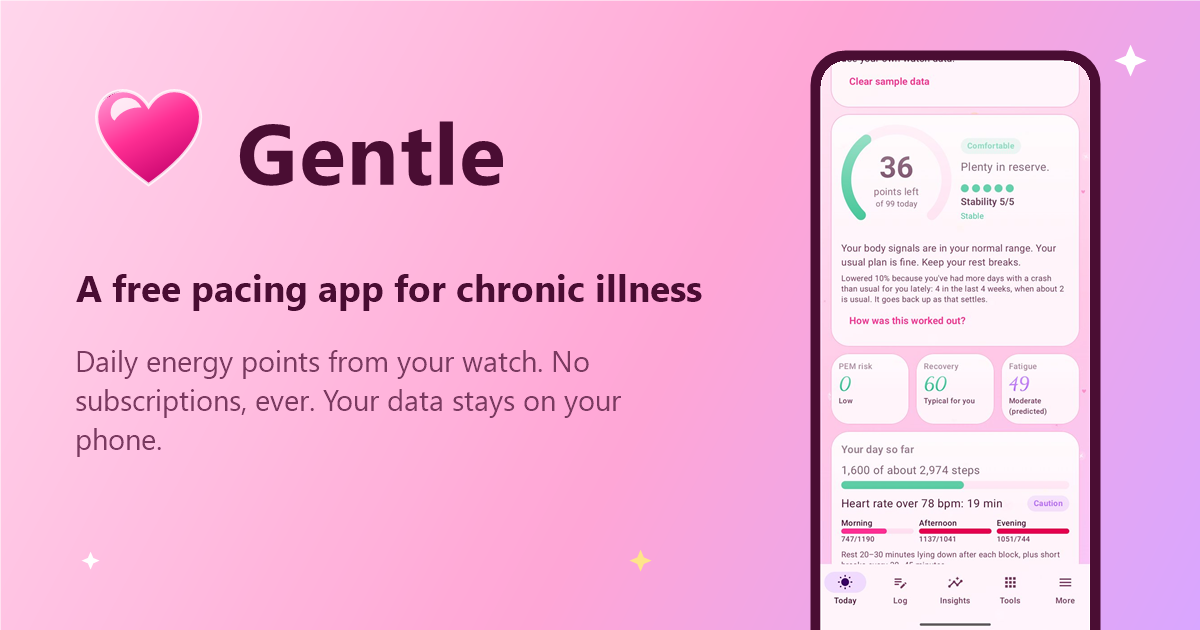
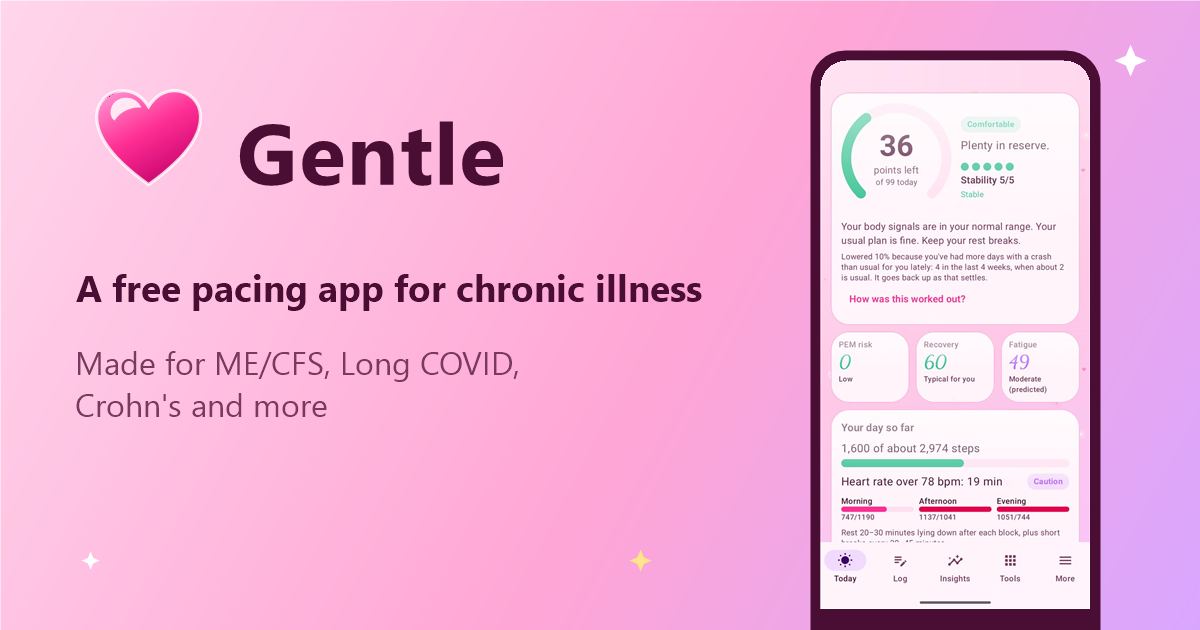
New sharing image tagline, privacy page Health Connect list, app-ads.txt for AdMob

Changed region(s): [[0.6783, 0.0905, 0.925, 1.0], [0.0617, 0.5429, 0.5242, 0.6635], [0.0617, 0.6937, 0.1233, 0.7238]]

diff --git a/privacy.html b/privacy.html
@@ -74,7 +74,7 @@
   "about": {
     "@id": "https://gentle-app.github.io/#app"
   },
-  "dateModified": "2026-11-22"
+  "dateModified": "2026-11-23"
 }
   </script>
   <!-- Cloudflare Web Analytics --><script type='module' src='https://static.cloudflareinsights.com/beacon.min.js' data-cf-beacon='{"token": "a7fb1e376e5f4f01a6a2b616ecb05672"}'></script><!-- End Cloudflare Web Analytics -->
@@ -194,7 +194,7 @@
     <p>If you make a backup or a report for your doctor, the file goes wherever you choose to save or send it.</p>
 
     <h2>What Gentle reads from Health Connect</h2>
-    <p>With your permission, Gentle reads steps, heart rate, resting heart rate, heart rate variability, sleep, exercise sessions, calories, distance, floors, blood oxygen, breathing rate, skin and body temperature, menstruation, weight, nutrition and hydration. You choose which of these it can read, and you can change that in Health Connect whenever you like. Gentle only uses them on your phone, to work out your energy points, alerts and patterns.</p>
+    <p>With your permission, Gentle reads steps, heart rate, resting heart rate, heart rate variability, sleep, exercise sessions, blood oxygen, breathing rate, skin temperature, menstruation, nutrition and hydration. You choose which of these it can read, and you can change that in Health Connect whenever you like. Gentle only uses them on your phone, to work out your energy points, alerts and patterns. Version 1.0.1 and earlier, from this website, could also read calories, distance, floors climbed, body temperature and weight if you allowed it. Those stayed on your phone too, and later versions don't ask for them.</p>
 
     <h2>The watch app</h2>
     <p>The Gentle watch app sends heart rate and steps from your watch to Gentle on your paired phone, and the phone sends back your points left and your pace line. That data only goes between your own watch and phone.</p>

diff --git a/404.html b/404.html
@@ -75,7 +75,7 @@
   "about": {
     "@id": "https://gentle-app.github.io/#app"
   },
-  "dateModified": "2026-11-22"
+  "dateModified": "2026-11-23"
 }
   </script>
   <!-- Cloudflare Web Analytics --><script type='module' src='https://static.cloudflareinsights.com/beacon.min.js' data-cf-beacon='{"token": "a7fb1e376e5f4f01a6a2b616ecb05672"}'></script><!-- End Cloudflare Web Analytics -->

diff --git a/changelog.html b/changelog.html
@@ -74,7 +74,7 @@
   "about": {
     "@id": "https://gentle-app.github.io/#app"
   },
-  "dateModified": "2026-11-22"
+  "dateModified": "2026-11-23"
 }
   </script>
   <!-- Cloudflare Web Analytics --><script type='module' src='https://static.cloudflareinsights.com/beacon.min.js' data-cf-beacon='{"token": "a7fb1e376e5f4f01a6a2b616ecb05672"}'></script><!-- End Cloudflare Web Analytics -->

diff --git a/bowel-movement-tracker.html b/bowel-movement-tracker.html
@@ -74,7 +74,7 @@
   "about": {
     "@id": "https://gentle-app.github.io/#app"
   },
-  "dateModified": "2026-11-22"
+  "dateModified": "2026-11-23"
 }
   </script>
   <script type="application/ld+json">

diff --git a/crash-pem-tracker.html b/crash-pem-tracker.html
@@ -74,7 +74,7 @@
   "about": {
     "@id": "https://gentle-app.github.io/#app"
   },
-  "dateModified": "2026-11-22"
+  "dateModified": "2026-11-23"
 }
   </script>
   <script type="application/ld+json">

diff --git a/crohns-ibd-fatigue.html b/crohns-ibd-fatigue.html
@@ -74,7 +74,7 @@
   "about": {
     "@id": "https://gentle-app.github.io/#app"
   },
-  "dateModified": "2026-11-22"
+  "dateModified": "2026-11-23"
 }
   </script>
   <script type="application/ld+json">

diff --git a/download.html b/download.html
@@ -74,7 +74,7 @@
   "about": {
     "@id": "https://gentle-app.github.io/#app"
   },
-  "dateModified": "2026-11-22"
+  "dateModified": "2026-11-23"
 }
   </script>
   <script type="application/ld+json">

diff --git a/energy-pacing-app.html b/energy-pacing-app.html
@@ -74,7 +74,7 @@
   "about": {
     "@id": "https://gentle-app.github.io/#app"
   },
-  "dateModified": "2026-11-22"
+  "dateModified": "2026-11-23"
 }
   </script>
   <script type="application/ld+json">

diff --git a/fatiguesense-subscription.html b/fatiguesense-subscription.html
@@ -74,7 +74,7 @@
   "about": {
     "@id": "https://gentle-app.github.io/#app"
   },
-  "dateModified": "2026-11-22"
+  "dateModified": "2026-11-23"
 }
   </script>
   <script type="application/ld+json">

diff --git a/free-no-subscription.html b/free-no-subscription.html
@@ -74,7 +74,7 @@
   "about": {
     "@id": "https://gentle-app.github.io/#app"
   },
-  "dateModified": "2026-11-22"
+  "dateModified": "2026-11-23"
 }
   </script>
   <script type="application/ld+json">

diff --git a/heart-rate-pacing.html b/heart-rate-pacing.html
@@ -74,7 +74,7 @@
   "about": {
     "@id": "https://gentle-app.github.io/#app"
   },
-  "dateModified": "2026-11-22"
+  "dateModified": "2026-11-23"
 }
   </script>
   <script type="application/ld+json">

diff --git a/me-cfs-long-covid.html b/me-cfs-long-covid.html
@@ -74,7 +74,7 @@
   "about": {
     "@id": "https://gentle-app.github.io/#app"
   },
-  "dateModified": "2026-11-22"
+  "dateModified": "2026-11-23"
 }
   </script>
   <script type="application/ld+json">
